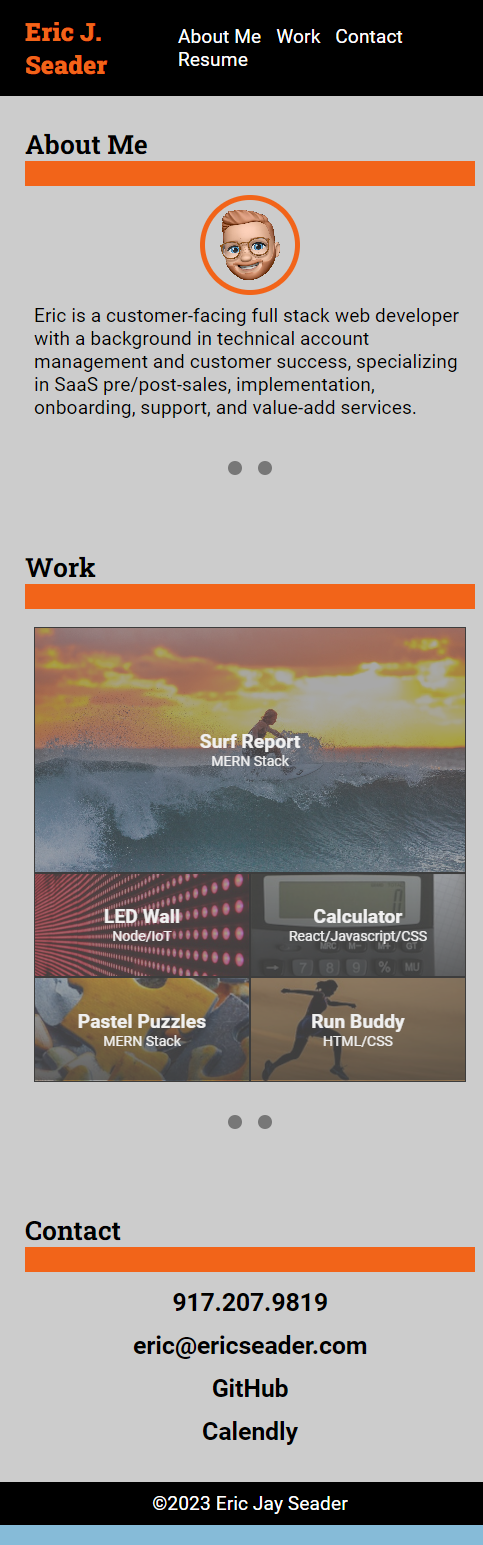
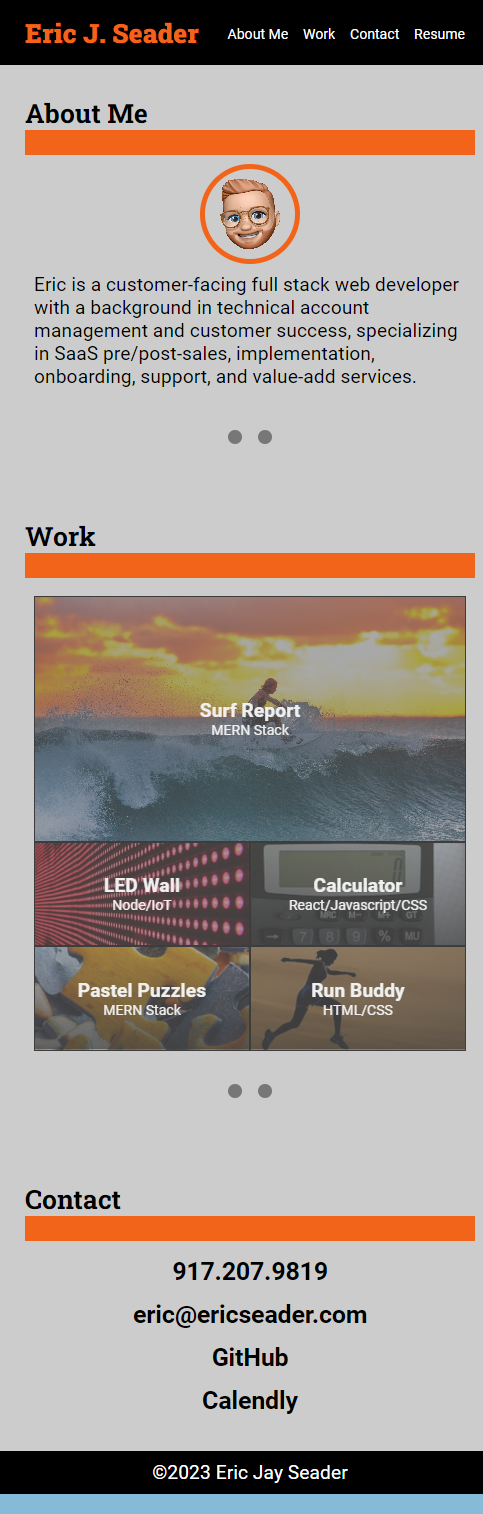
opitmized CSS for proper header spacing, refreshed site screenshots for README

diff --git a/assets/css/style.css b/assets/css/style.css
@@ -81,6 +81,7 @@ header {
 
 header nav a {
     position: relative;
+    font-size: 0.8rem;
 }
 
 header nav a:not(last-child) {
@@ -91,7 +92,7 @@ header .eric a {
     color: var(--site-orange);
     font-family: 'Roboto Slab', 'Times New Roman', serif;
     font-weight: 900;
-    font-size: 25px;
+    font-size: 1.5rem;
 }
 
 header nav a:hover {
@@ -109,11 +110,9 @@ main {
 }
 
 section {
-    /* margin: 0 auto; */
     padding: 20px 5%;
     display:flex;
     flex-direction: column;
-    /* align-items: start; */
 }
 
 section h1 {
@@ -276,6 +275,15 @@ footer {
 /* MEDIA QUERIES */
 
 @media (min-width: 650px) {
+    header nav a {
+        position: relative;
+        font-size: 1.1rem;
+    }
+
+    header .eric a {
+        font-size: 1.8rem;
+    }
+
     section {
         flex-direction: row;
     }
